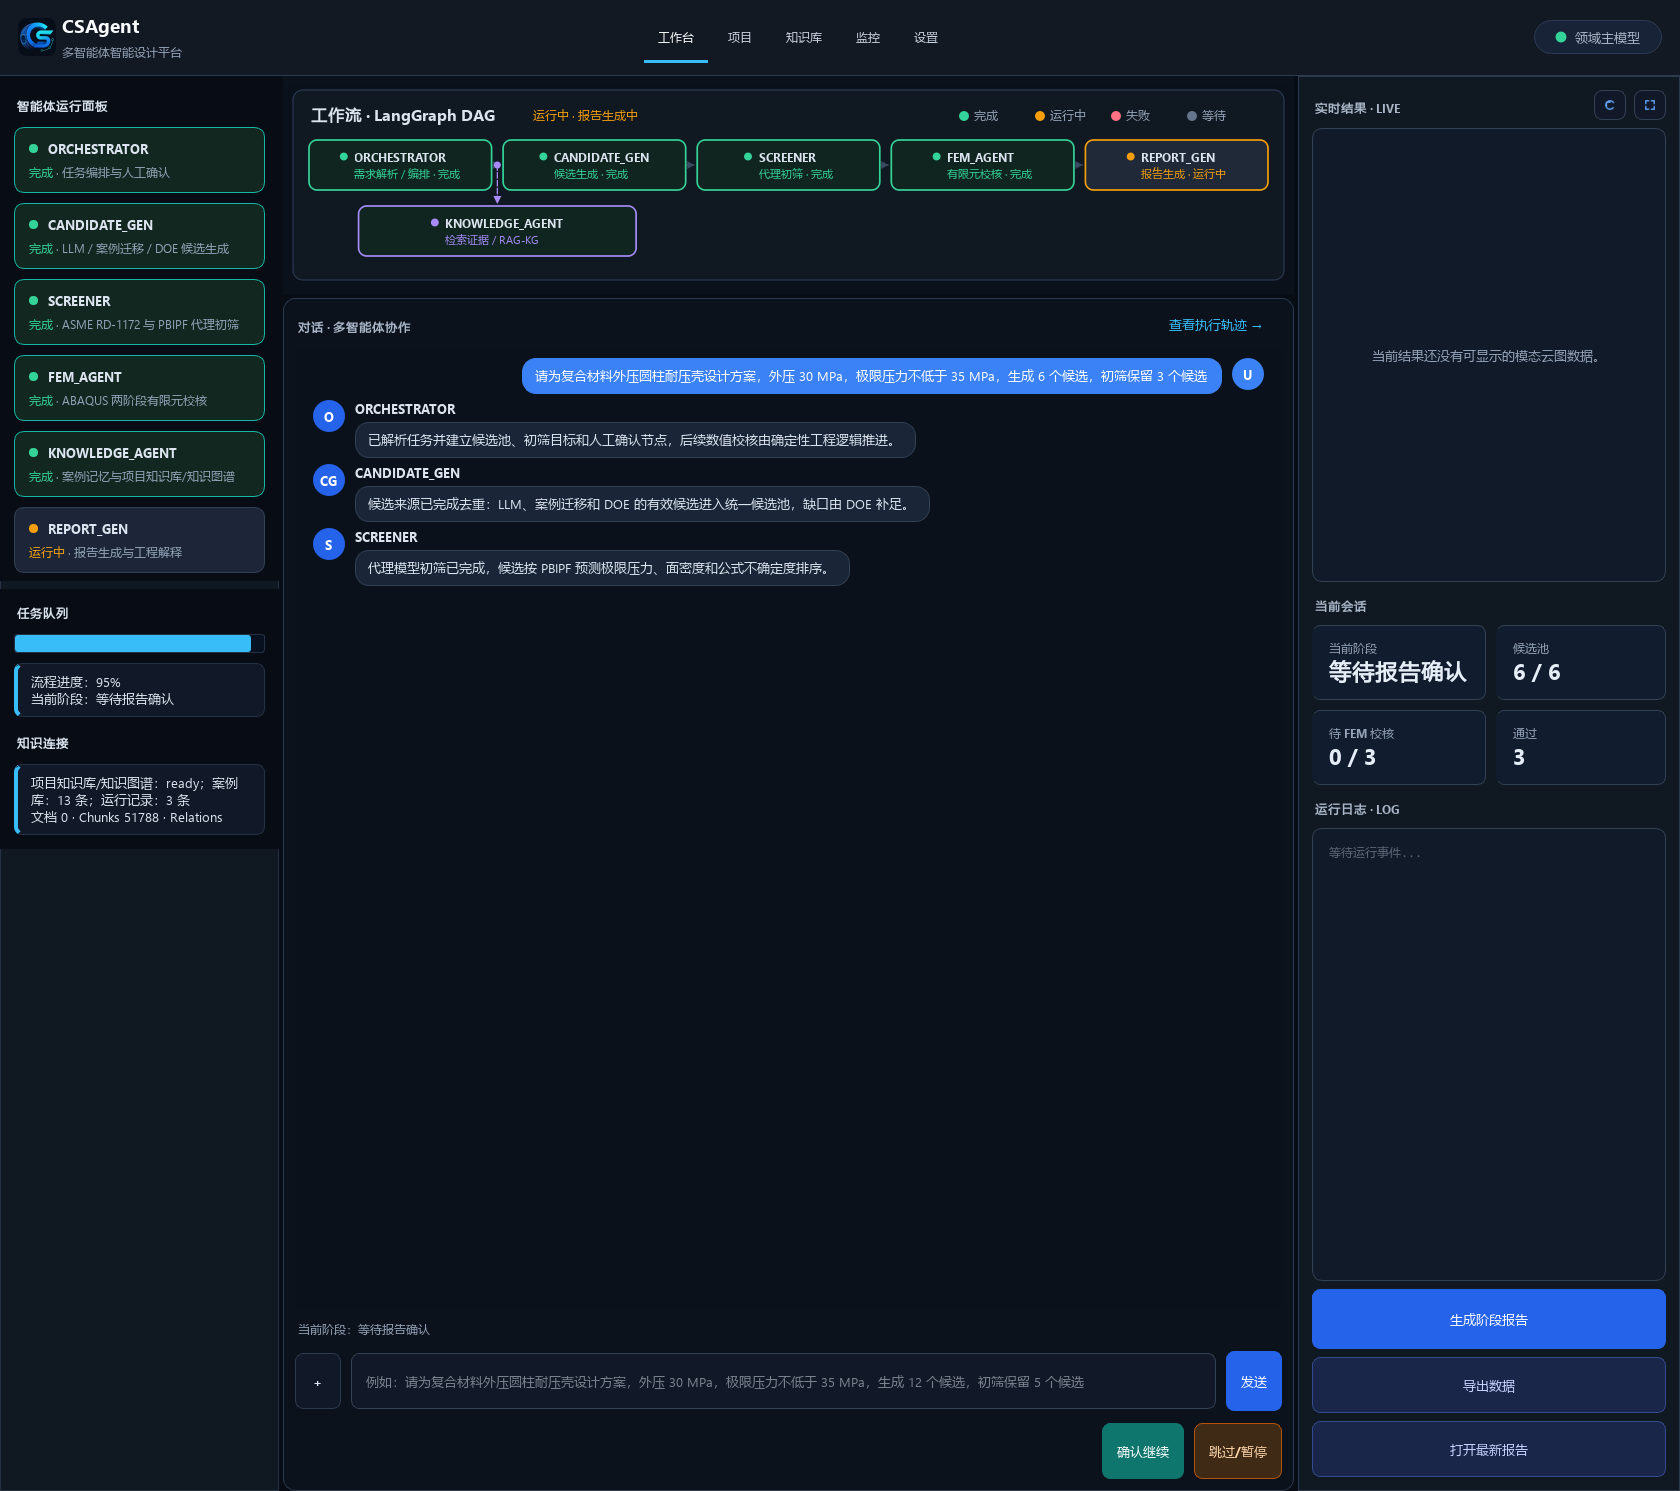
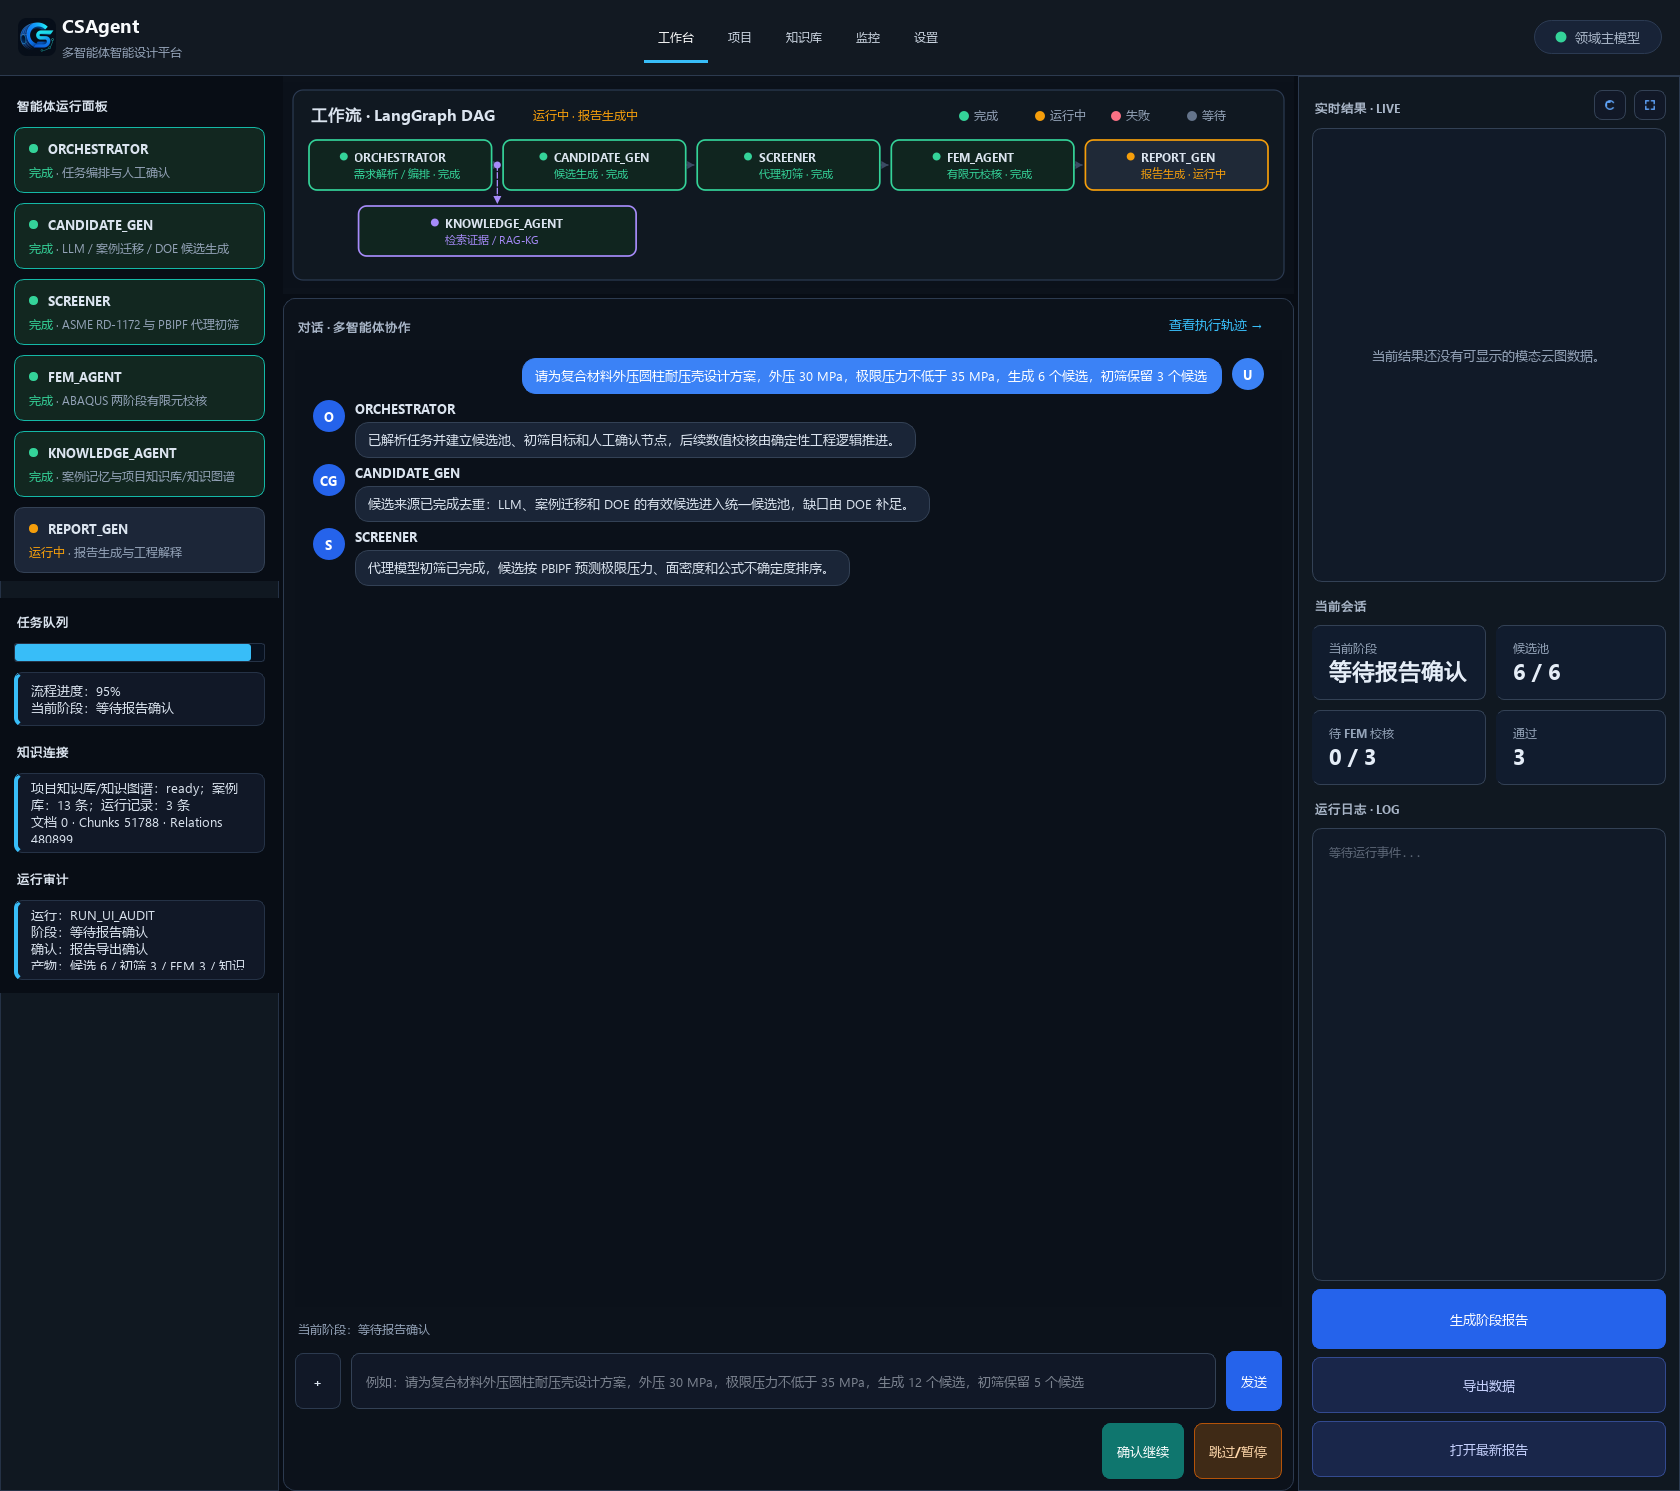
Add workbench run audit panel

Changed region(s): [[0.0, 0.4011, 0.1548, 0.6479]]

diff --git a/gui/main_window.py b/gui/main_window.py
@@ -365,6 +365,8 @@ class MainWindow(QMainWindow):
         self.queue_header.setObjectName("sectionTitle")
         self.knowledge_status_header = QLabel(self.locale.text("section.knowledge_status"))
         self.knowledge_status_header.setObjectName("sectionTitle")
+        self.run_audit_header = QLabel(self.locale.text("section.run_audit"))
+        self.run_audit_header.setObjectName("sectionTitle")
         self.workbench_header = QLabel(self.locale.text("section.workbench"))
         self.workbench_header.setObjectName("sectionTitle")
         self.dialog_header = QLabel(self.locale.text("section.dialog"))
@@ -379,6 +381,7 @@ class MainWindow(QMainWindow):
             self.agent_header,
             self.queue_header,
             self.knowledge_status_header,
+            self.run_audit_header,
             self.workbench_header,
             self.dialog_header,
             self.details_header,
@@ -395,6 +398,9 @@ class MainWindow(QMainWindow):
         self.knowledge_status_label = QLabel("")
         self.knowledge_status_label.setObjectName("statusLabel")
         self.knowledge_status_label.setWordWrap(True)
+        self.run_audit_label = QLabel("")
+        self.run_audit_label.setObjectName("statusLabel")
+        self.run_audit_label.setWordWrap(True)
 
         self.candidate_widget = CandidateWidget(language=self.locale.language)
         self.abaqus_widget = AbaqusWidget(language=self.locale.language)
@@ -499,6 +505,8 @@ class MainWindow(QMainWindow):
         queue_layout.addWidget(self.queue_label)
         queue_layout.addWidget(self.knowledge_status_header)
         queue_layout.addWidget(self.knowledge_status_label)
+        queue_layout.addWidget(self.run_audit_header)
+        queue_layout.addWidget(self.run_audit_label)
 
         workflow_panel = QWidget()
         workflow_panel.setObjectName("centerWorkbench")
@@ -1889,6 +1897,7 @@ class MainWindow(QMainWindow):
         self.agent_header.setText(self.locale.text("section.agents"))
         self.queue_header.setText(self.locale.text("section.queue"))
         self.knowledge_status_header.setText(self.locale.text("section.knowledge_status"))
+        self.run_audit_header.setText(self.locale.text("section.run_audit"))
         self.workbench_header.setText(self.locale.text("section.workbench"))
         self.dialog_header.setText(self.locale.text("section.dialog"))
         self.details_header.setText(self.locale.text("section.details"))
@@ -2093,6 +2102,14 @@ class MainWindow(QMainWindow):
             return 18
         return 0
 
+    def _display_confirmation_gate(self, gate: str | None) -> str:
+        mapping = {
+            "screen_candidates": "audit.confirm_screen",
+            "fem_evaluation": "audit.confirm_fem",
+            "export_report": "audit.confirm_report",
+        }
+        return self.locale.text(mapping.get(str(gate or ""), "audit.none"))
+
     def _agent_state_map(self) -> dict[str, str]:
         states = {agent_name: "waiting" for agent_name, _ in self.AGENT_DESCRIPTIONS}
         stage = self.session.stage or "idle"
@@ -2236,6 +2253,23 @@ class MainWindow(QMainWindow):
             + f"Chunks {knowledge_payload.get('rag_chunk_count', 0)} · "
             + f"Relations {knowledge_payload.get('kg_relation_count', 0)}"
         )
+        run_id = self.session.workflow_run_id or self.locale.text("audit.no_run")
+        audit_lines = [
+            self.locale.text("audit.run", run_id=run_id),
+            self.locale.text("audit.stage", stage=self._display_stage(self.session.stage or "idle")),
+            self.locale.text(
+                "audit.confirmation",
+                confirmation=self._display_confirmation_gate(self.session.pending_confirmation),
+            ),
+            self.locale.text(
+                "audit.artifacts",
+                candidates=len(self.session.candidates),
+                screened=len(self.session.screened_candidates),
+                results=len(self.session.results_by_session_id),
+                knowledge=len(self.session.knowledge_updates),
+            ),
+        ]
+        self.run_audit_label.setText("\n".join(audit_lines))
         active_stage = self._display_stage(self.runtime_stage_text or self.session.stage)
         if self.session.task or self.runtime_stage_text:
             stage_prefix = (

diff --git a/gui/i18n.py b/gui/i18n.py
@@ -44,6 +44,7 @@ TEXT: dict[str, dict[str, str]] = {
         "section.agents": "智能体运行面板",
         "section.queue": "任务队列",
         "section.knowledge_status": "知识连接",
+        "section.run_audit": "运行审计",
         "section.workbench": "工作流 · LangGraph DAG",
         "section.dialog": "对话 · 多智能体协作",
         "section.details": "实时结果 · LIVE",
@@ -124,6 +125,15 @@ TEXT: dict[str, dict[str, str]] = {
         "queue.progress": "流程进度：{percent}%",
         "queue.stage": "当前阶段：{stage}",
         "knowledge.status": "项目知识库/知识图谱：{status}；案例库：{cases} 条；运行记录：{runs} 条",
+        "audit.no_run": "未开始",
+        "audit.none": "无",
+        "audit.confirm_screen": "初筛确认",
+        "audit.confirm_fem": "有限元校核确认",
+        "audit.confirm_report": "报告导出确认",
+        "audit.run": "运行：{run_id}",
+        "audit.stage": "阶段：{stage}",
+        "audit.confirmation": "确认：{confirmation}",
+        "audit.artifacts": "产物：候选 {candidates} / 初筛 {screened} / FEM {results} / 知识 {knowledge}",
         "snapshot.none": "暂无可恢复运行",
         "user.continue": "继续",
         "user.pause": "跳过/暂停",
@@ -191,6 +201,7 @@ TEXT: dict[str, dict[str, str]] = {
         "section.agents": "Agent Console",
         "section.queue": "Task Queue",
         "section.knowledge_status": "Knowledge Link",
+        "section.run_audit": "Run Audit",
         "section.workbench": "Workflow · LangGraph DAG",
         "section.dialog": "Conversation · Multi-Agent Collaboration",
         "section.details": "Live Results",
@@ -271,6 +282,15 @@ TEXT: dict[str, dict[str, str]] = {
         "queue.progress": "Workflow progress: {percent}%",
         "queue.stage": "Current stage: {stage}",
         "knowledge.status": "Project RAG/KG: {status}; cases: {cases}; runs: {runs}",
+        "audit.no_run": "Not started",
+        "audit.none": "None",
+        "audit.confirm_screen": "Screening gate",
+        "audit.confirm_fem": "FEM gate",
+        "audit.confirm_report": "Report gate",
+        "audit.run": "Run: {run_id}",
+        "audit.stage": "Stage: {stage}",
+        "audit.confirmation": "Gate: {confirmation}",
+        "audit.artifacts": "Artifacts: candidates {candidates} / screened {screened} / FEM {results} / knowledge {knowledge}",
         "snapshot.none": "No restorable run",
         "user.continue": "Continue",
         "user.pause": "Skip / Pause",
